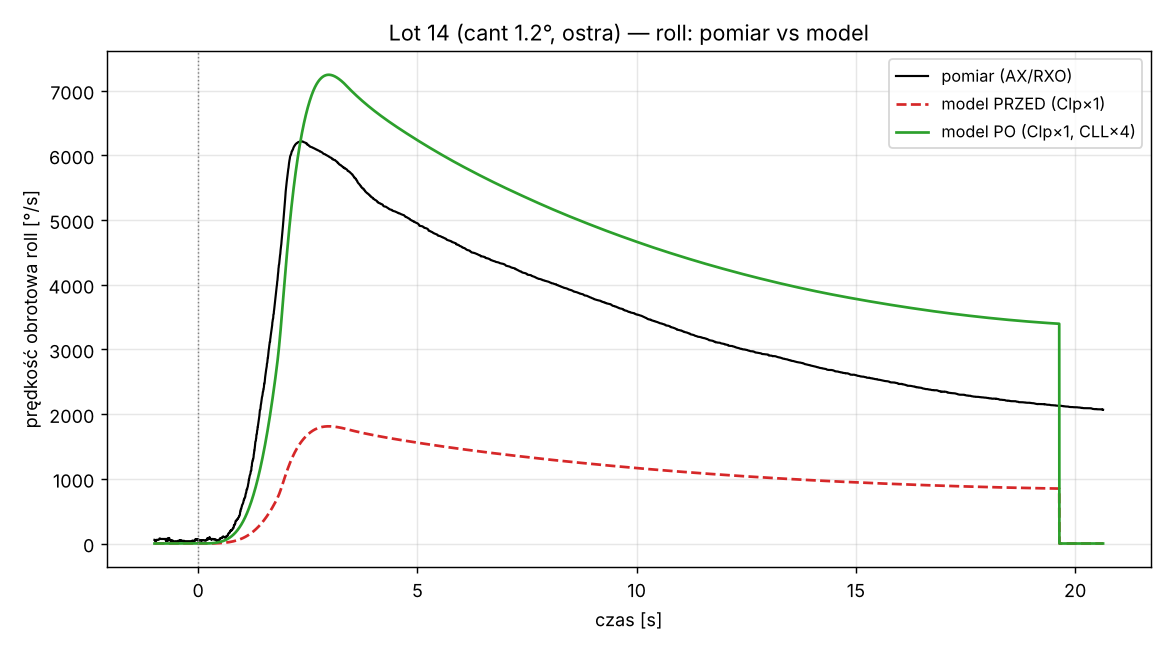
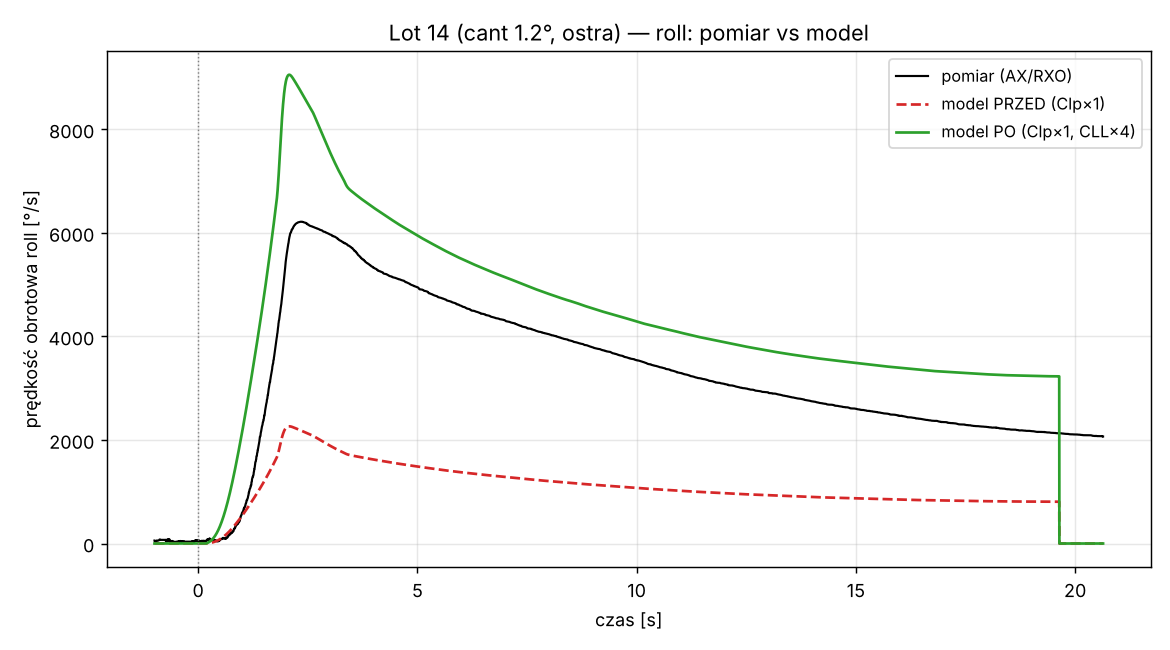
Repoint roll model comparison to correct-LREF DATCOM cant runs
Use the freshly regenerated cant decks (rocket_70mm_cant06/12/16 + baseline,
all LREF=0.070 m) instead of the stale _cant* ones. The CLL/Clp ratio is
LREF-invariant, so the 4x under-prediction of p*d/2V is confirmed rigorously
(model 0.0026 vs measured 0.0103 per deg). Crucially the correct (strong)
DATCOM Clp makes the model roll peak at ~2 s (burnout), not 6-7 s -- the late
peak was purely an artifact of the stale normalization's weak analytical Clp.

So the clean result: the roll DRIVE (CLL) is ~3.6x too low (per-flight 2.3-4.6),
the damping Clp is correct. compare_roll_model defaults updated to CLL x4,
Clp x1; plots and summary regenerated.

Claude-Session: https://claude.ai/code/session_016ry2enmcJ1dddpXR78yRQo

diff --git a/FlightSim/telemetry_analysis/analyze_spin_cant.py b/FlightSim/telemetry_analysis/analyze_spin_cant.py
@@ -60,8 +60,10 @@ IXX_COAST = 0.0028                 # moment bezwładności roll (po wypaleniu) [
 R_AIR = 287.05
 RESULTS = get_data_dir() / "results"
 
-# Przebiegi DATCOM dla modelu roll vs cant
-MODEL_RUNS = {0.0: "cant0p000", 0.6: "cant0p600", 1.6: "cant1p600"}
+# Przebiegi DATCOM dla modelu roll vs cant (LREF=średnica — poprawne).
+# cant=0 -> bieg bazowy (CLL=0); reszta -> osobne biegi cant.
+MODEL_RUNS = {0.0: "rocket_70mm_baseline", 0.6: "rocket_70mm_cant06",
+              1.2: "rocket_70mm_cant12", 1.6: "rocket_70mm_cant16"}
 
 
 # --------------------------------------------------------------------------
@@ -366,7 +368,7 @@ def load_model_roll():
     tabs = {}
     stale = False
     for cant, name in MODEL_RUNS.items():
-        run_dir = base / "datcom_runs" / f"rocket_70mm_baseline_{name}"
+        run_dir = base / "datcom_runs" / name
         p = run_dir / "aero_table_missile.pkl"
         if p.exists():
             try:

diff --git a/FlightSim/telemetry_analysis/compare_roll_model.py b/FlightSim/telemetry_analysis/compare_roll_model.py
@@ -186,8 +186,10 @@ def main(argv=None):
     ap = argparse.ArgumentParser(description=__doc__,
                                  formatter_class=argparse.RawDescriptionHelpFormatter)
     ap.add_argument("flights", nargs="*", type=int)
-    ap.add_argument("--clp-scale", type=float, default=0.25)
-    ap.add_argument("--cll-scale", type=float, default=1.0)
+    # Domyślna korekta (pkt 1, tabele DATCOM z poprawnym LREF): napęd ~4× za
+    # niski, tłumienie poprawne. Clp z DATCOM daje właściwy czas narastania.
+    ap.add_argument("--clp-scale", type=float, default=1.0)
+    ap.add_argument("--cll-scale", type=float, default=4.0)
     args = ap.parse_args(argv)
 
     cll_of, clp_of, mrange = model_roll_interpolators()
